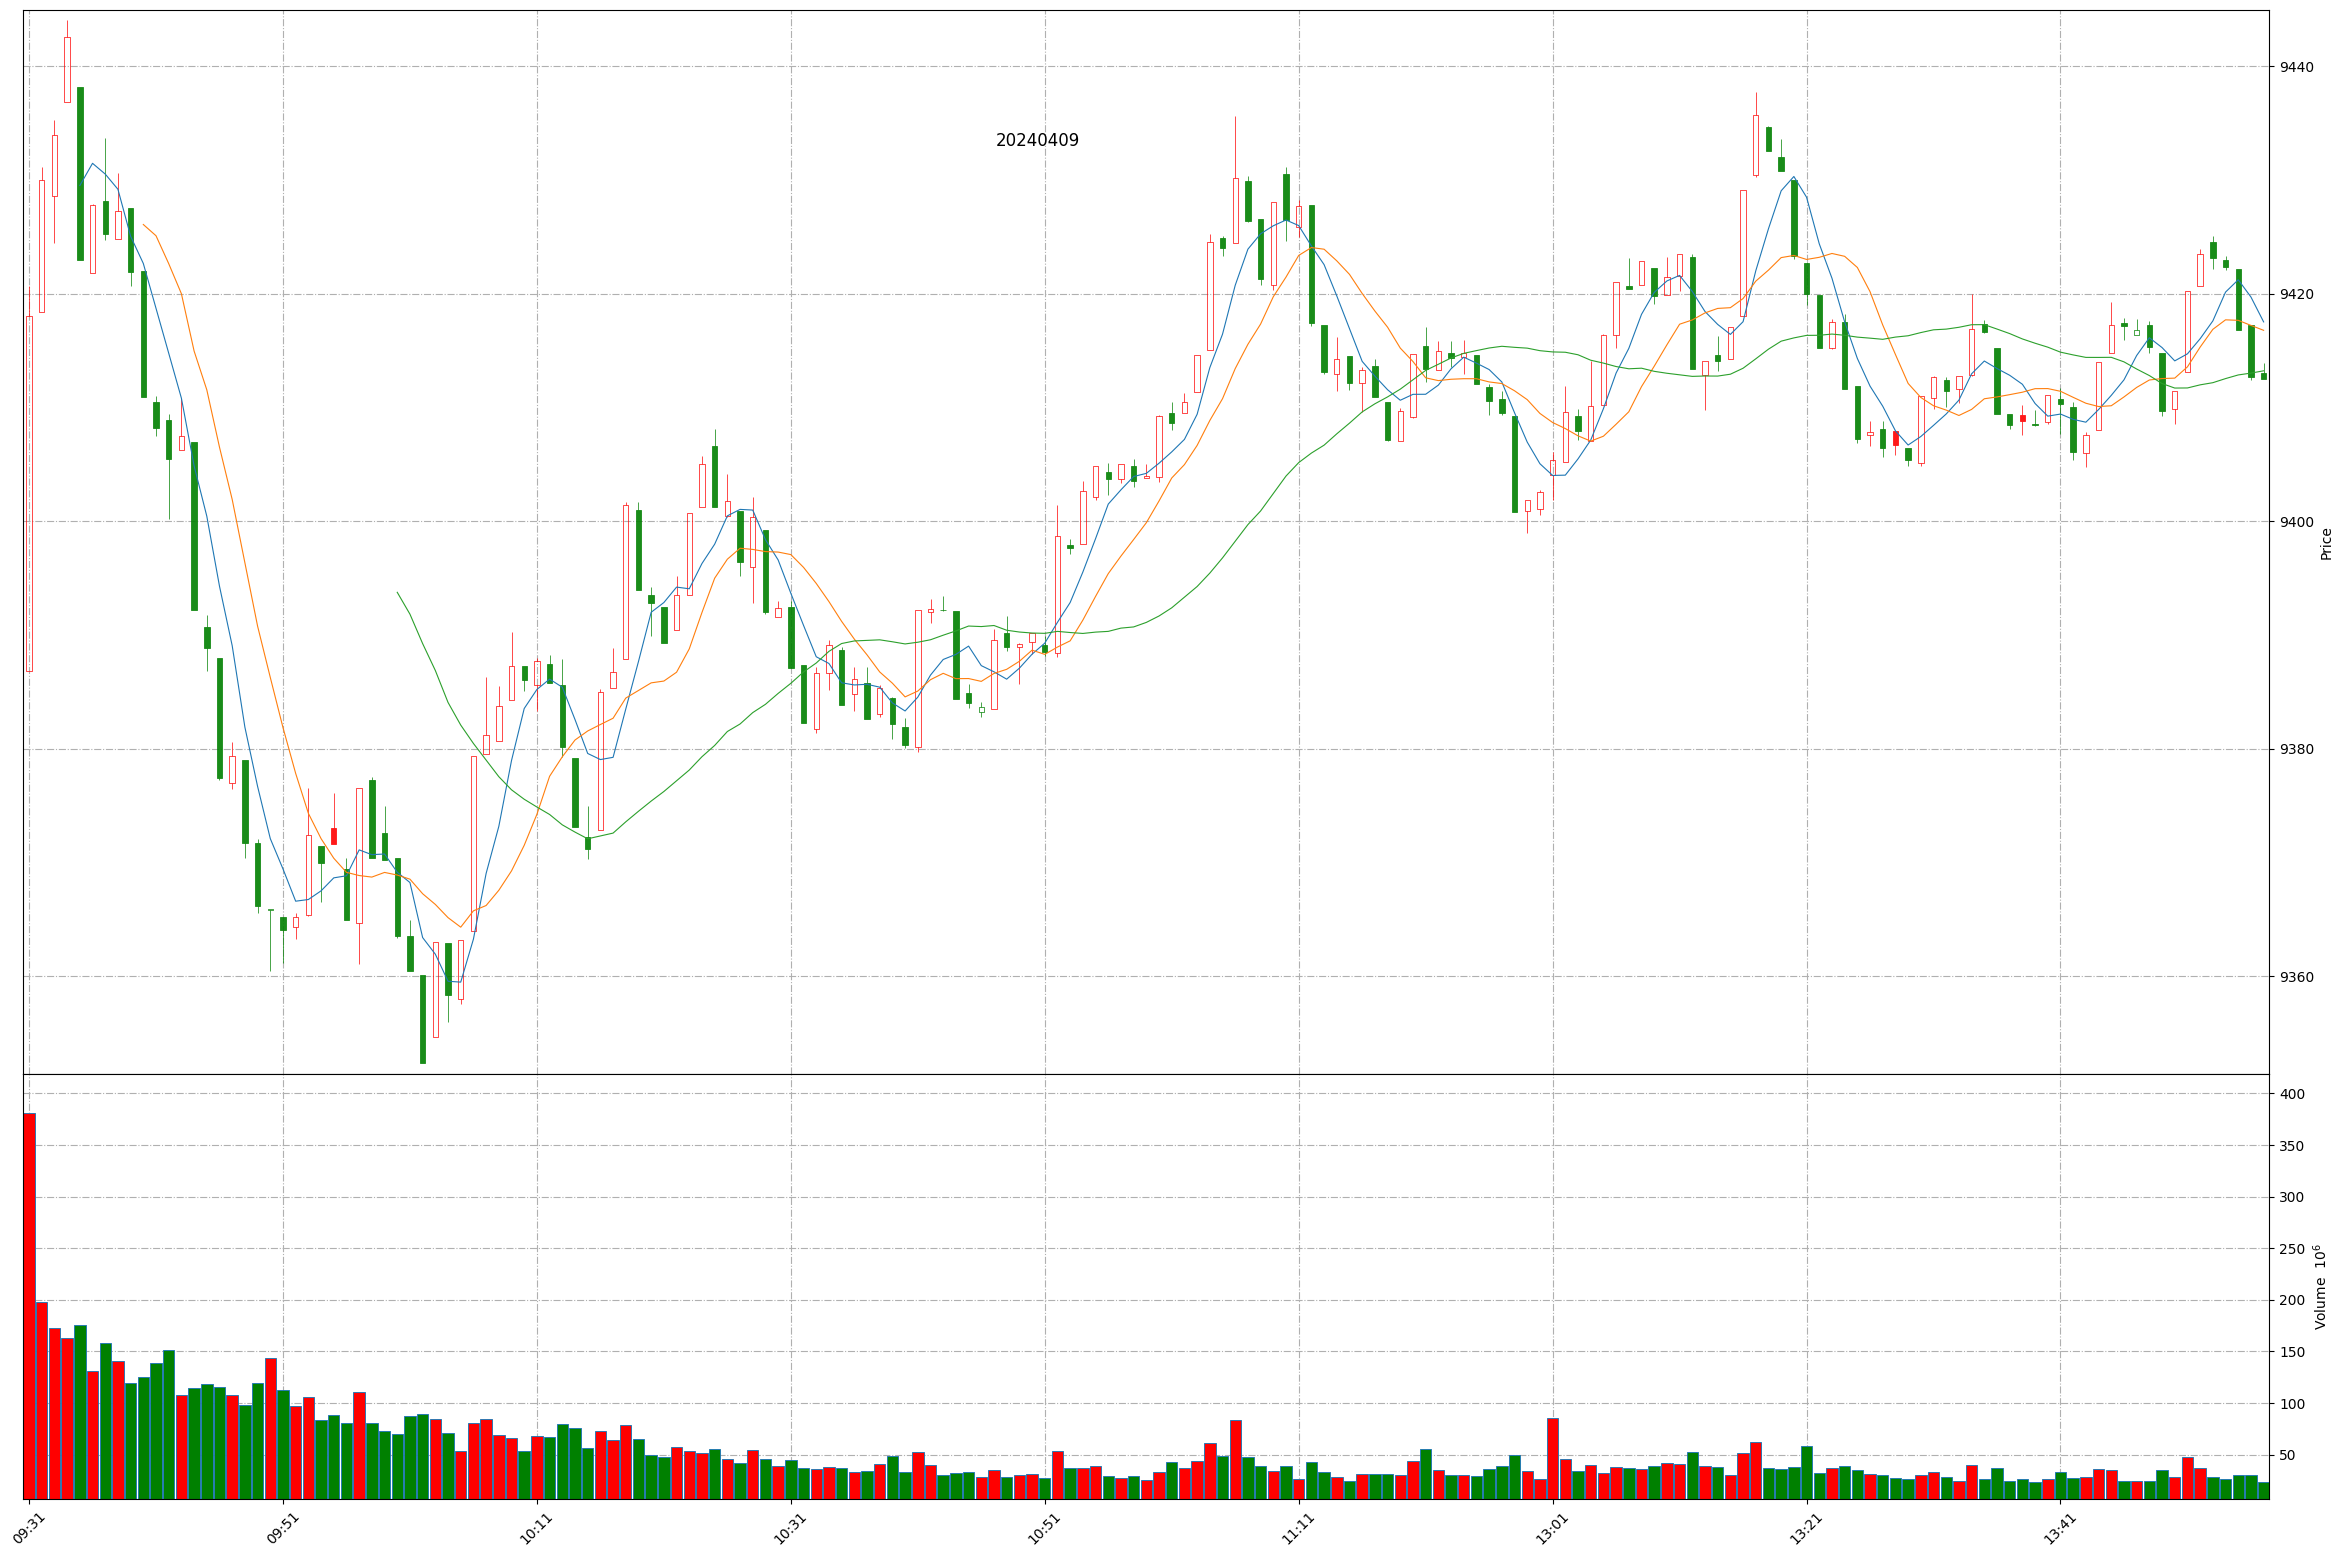
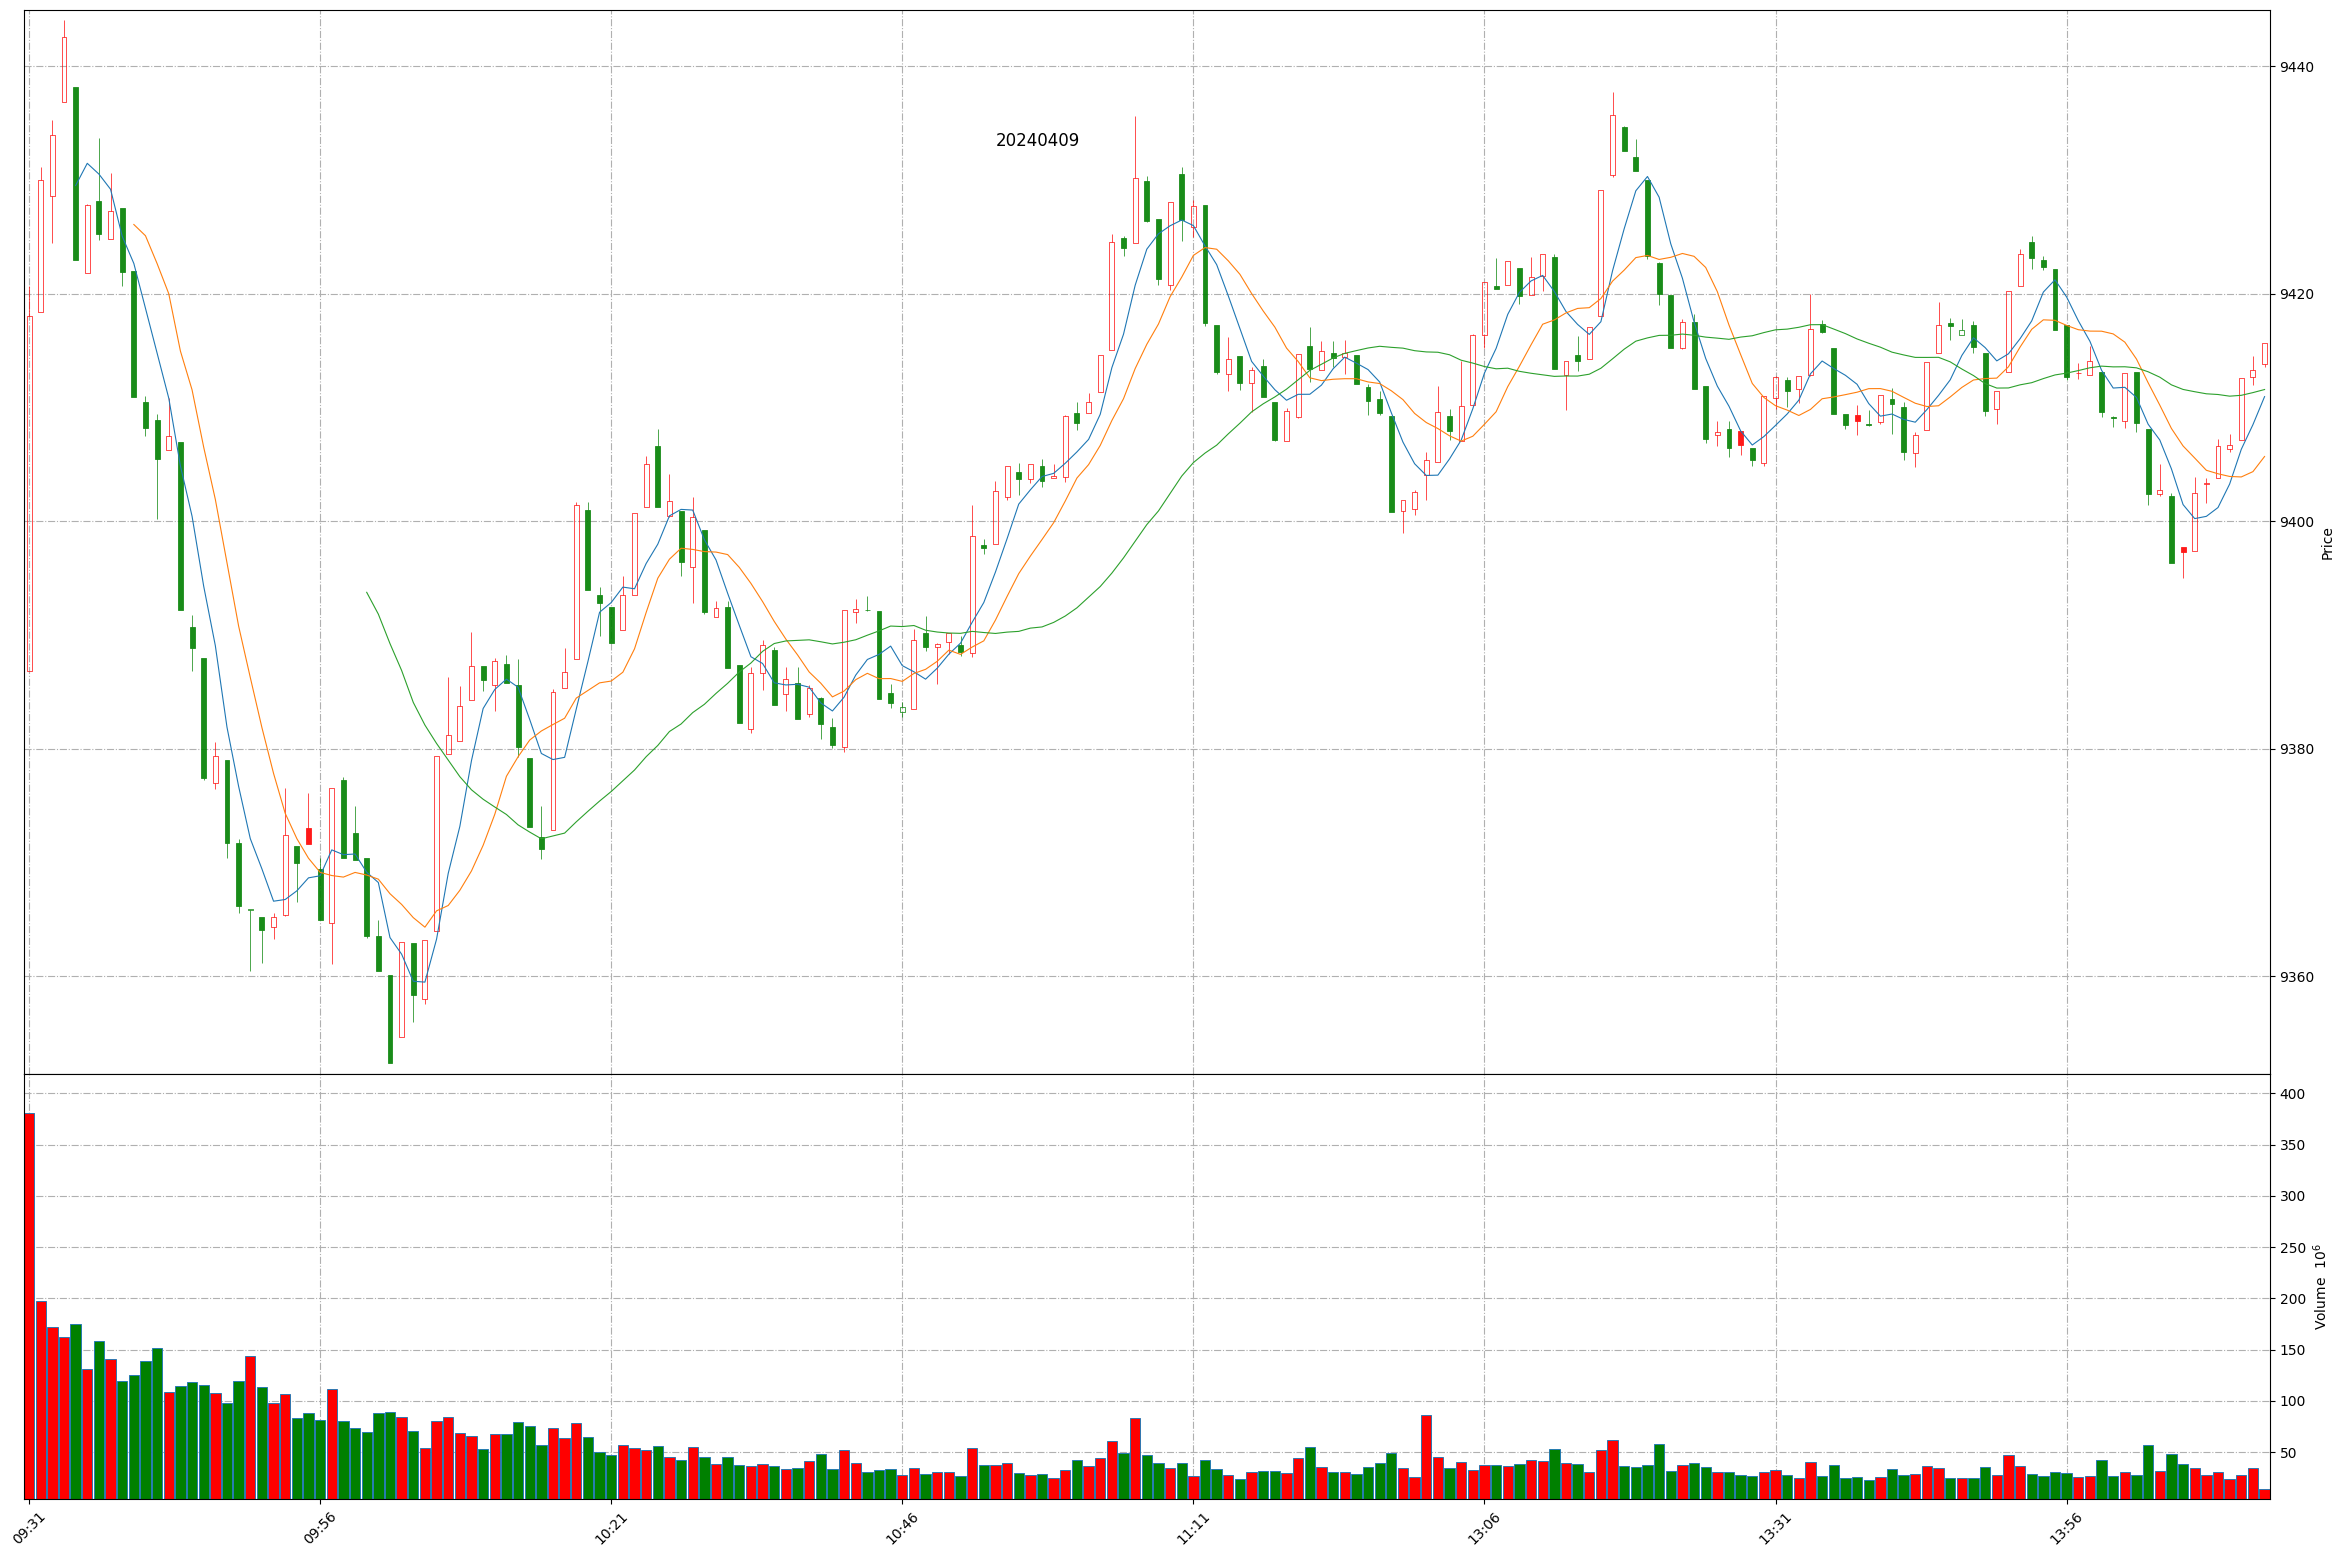
Github action update at 2024-04-09 14:12:44.

Changed region(s): [[0.0, 0.0617, 0.9659, 0.6782], [0.0, 0.8324, 0.9659, 0.9865]]

diff --git a/README.md b/README.md
@@ -1,11 +1,11 @@
 
 # Daily-A-share-market-quotes 每日 A 股指数（5min 更新）- 20240409
 
-### 上证指数 20240409 13:57
+### 上证指数 20240409 14:12
 ![](./fig/2024/4/20240409-sh000001.png)
 
-### 深证成指 20240409 13:57
+### 深证成指 20240409 14:12
 ![](./fig/2024/4/20240409-sz399001.png)
 
-### 北证50 20240409 13:57
+### 北证50 20240409 14:12
 ![](./fig/2024/4/20240409-bj899050.png)
